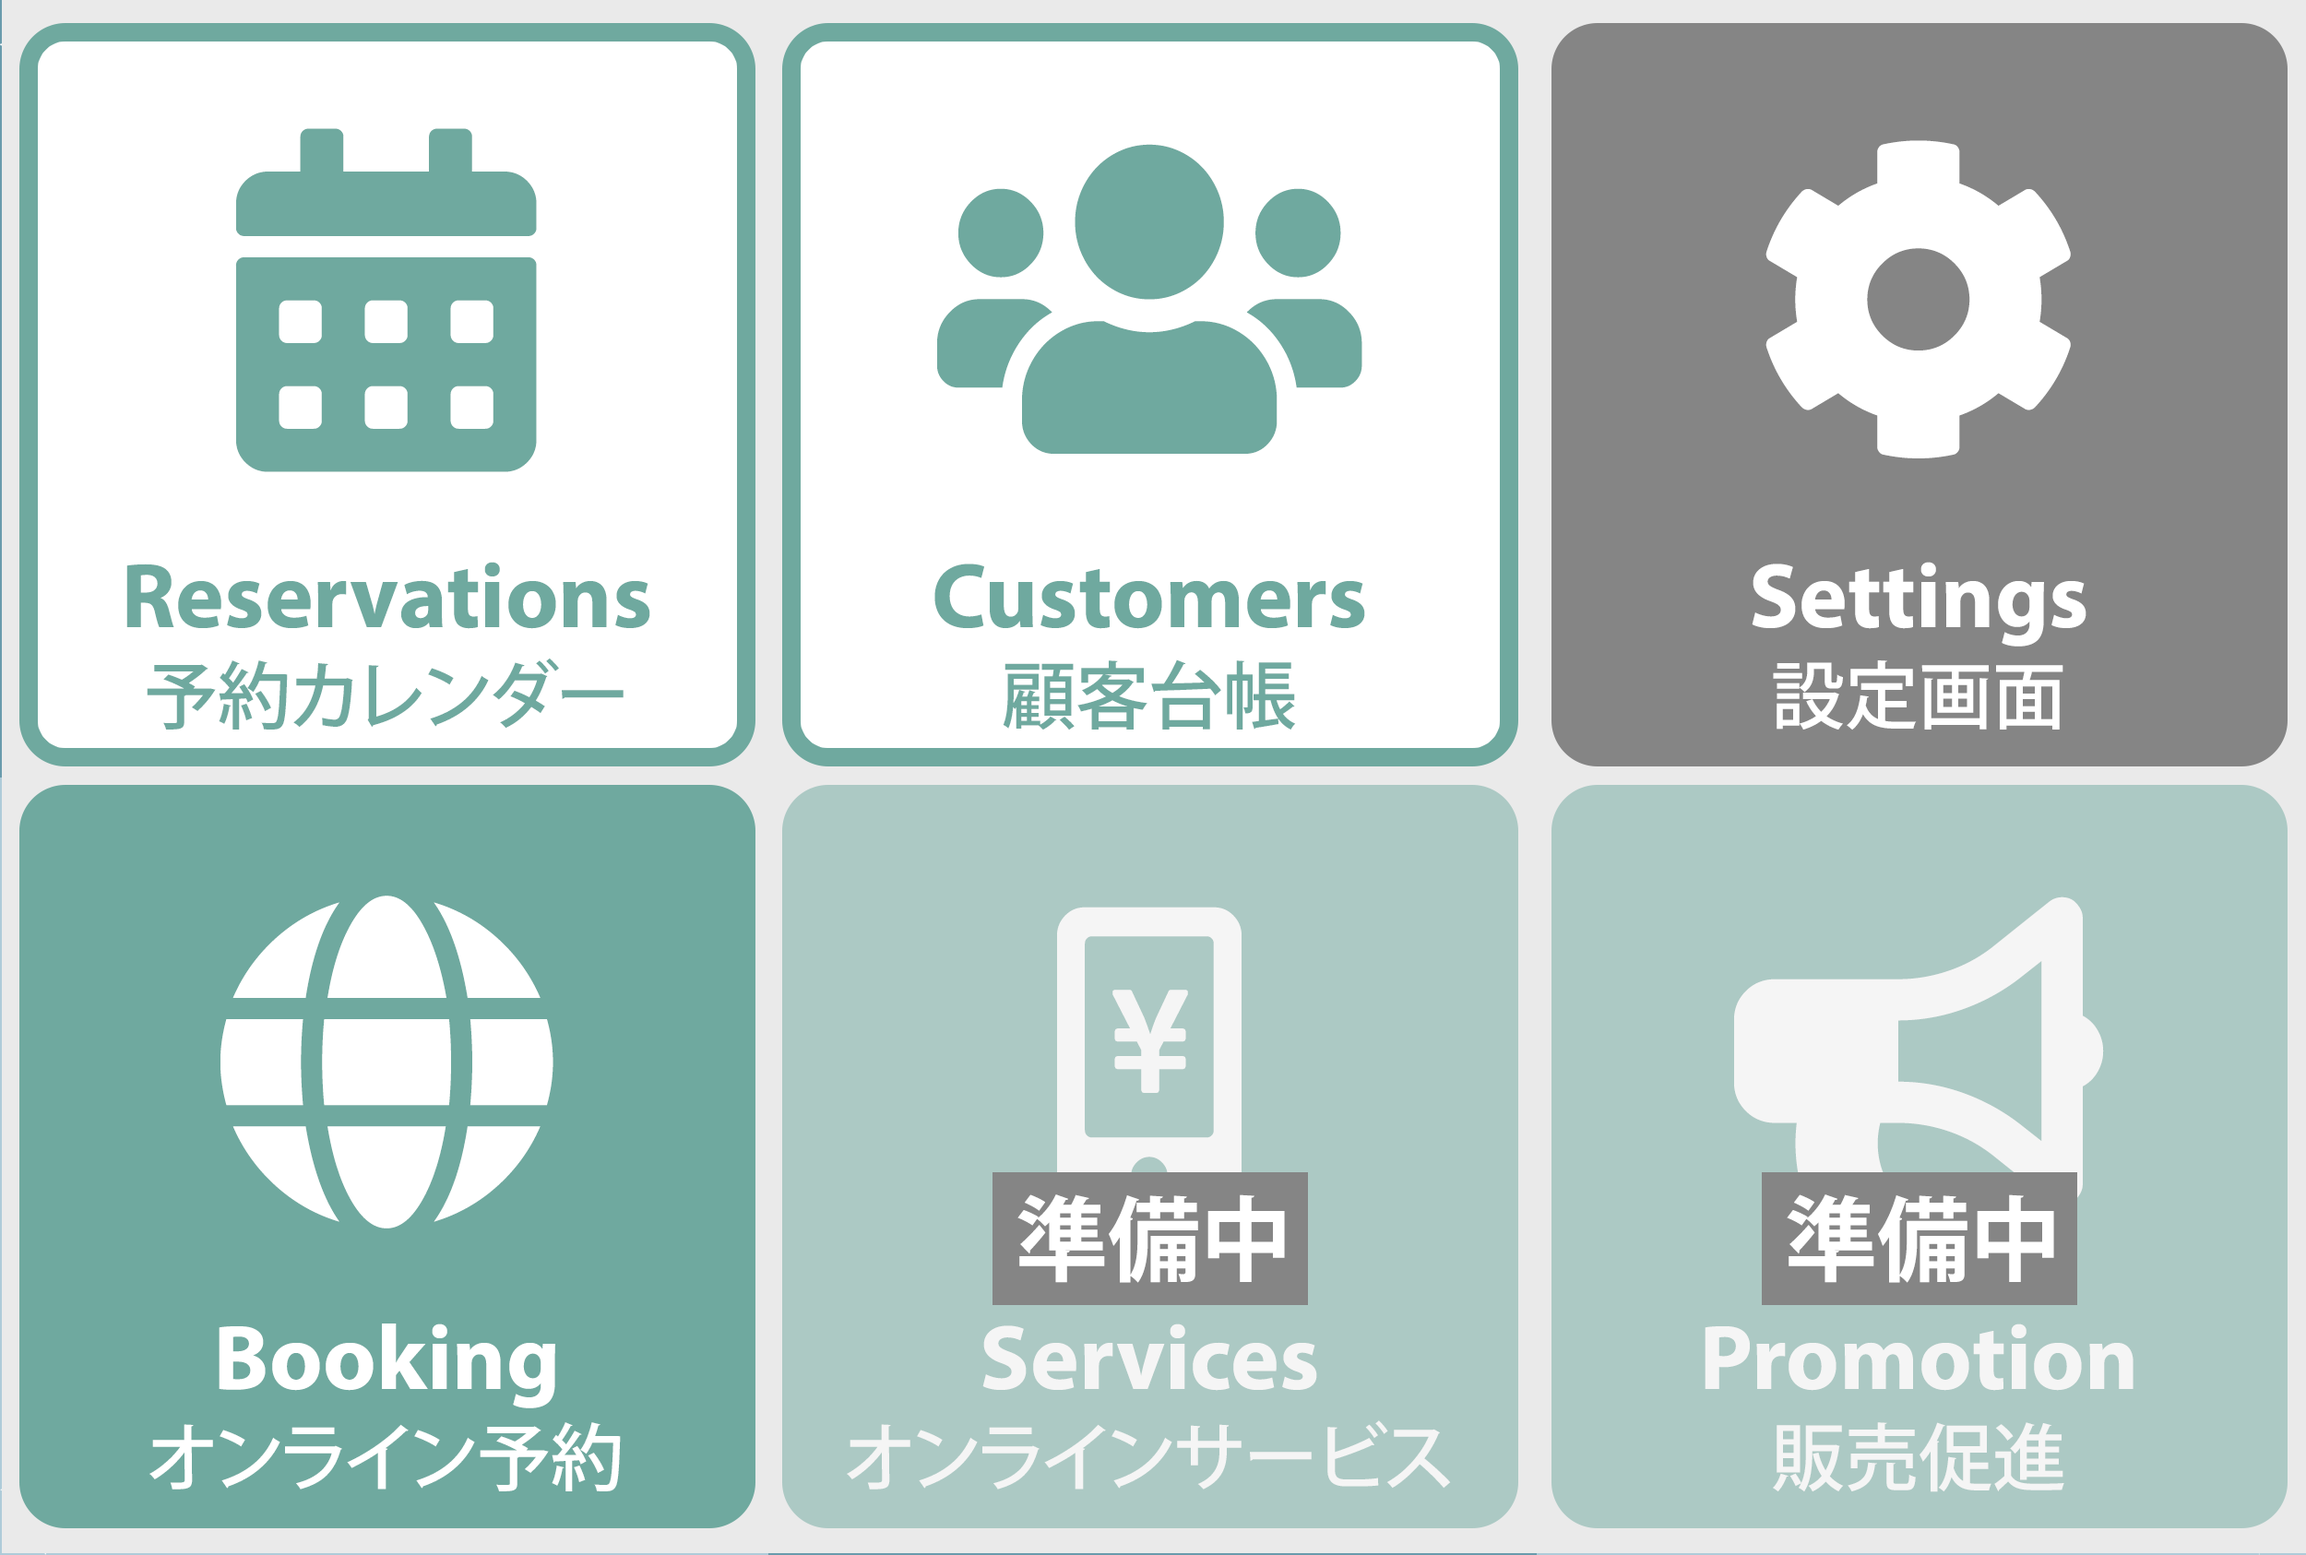
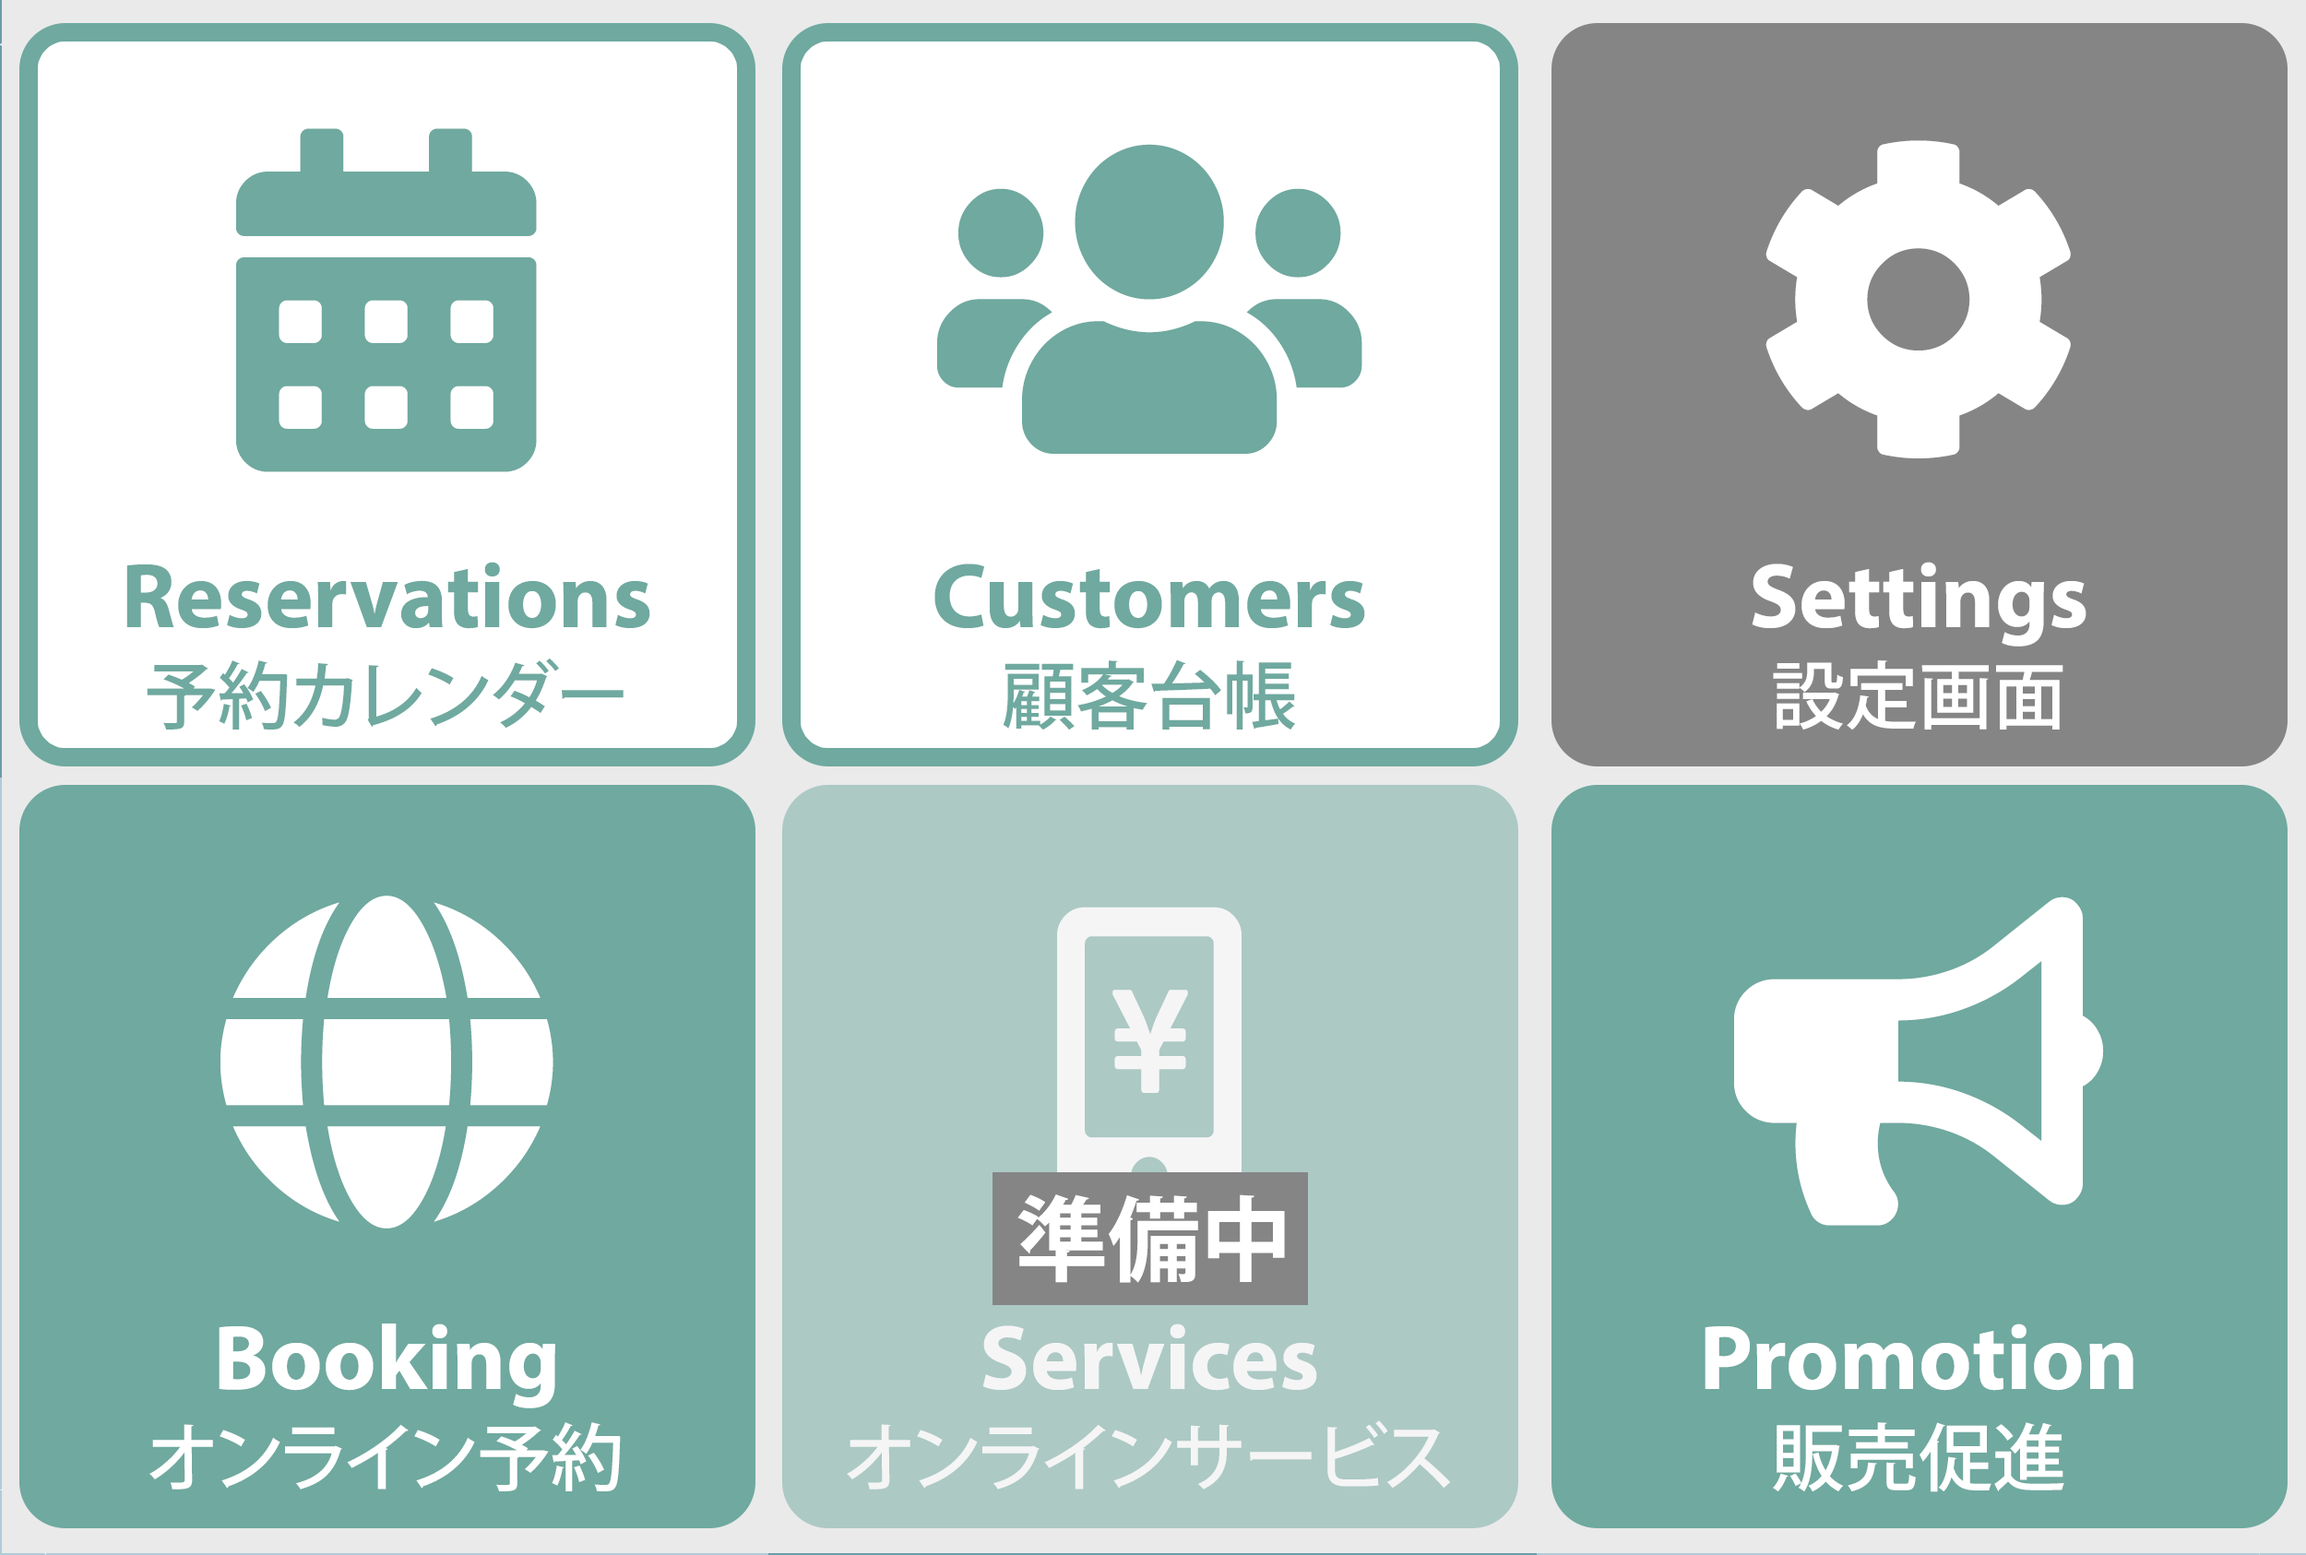
[UserBot][Sales] Add sales related rich menus
[What] Add sales related rich menus
[Why] essential feature
[How] Add it

Changed region(s): [[0.6552, 0.4935, 0.9984, 0.987]]

diff --git a/app/interactions/user_bot_lines/rich_menus/promotions.rb b/app/interactions/user_bot_lines/rich_menus/promotions.rb
@@ -1,0 +1,62 @@
+require "liff_routing"
+
+module UserBotLines
+  module RichMenus
+    class Promotions < ActiveInteraction::Base
+      KEY = "user_promotions".freeze
+
+      # 2500x1686
+      # | 1 | 2 |
+      # | 3 | 4 |
+      def execute
+        body = {
+          "size": {
+            "width": 2500,
+            "height": 1686
+          },
+          "selected": true,
+          "name": KEY,
+          "chatBarText": I18n.t("user_bot.guest.rich_menu_bar"),
+          "areas": [
+            {
+              # 1
+              "bounds": {
+                "x": 0,
+                "y": 0,
+                "width": 1250,
+                "height": 843
+              },
+              "action": LineActions::Postback.template(
+                action: UserBotLines::Actions::SwitchRichMenu.class_name,
+                enabled: true,
+                params: { rich_menu_key: UserBotLines::RichMenus::Dashboard::KEY },
+                displayText: false
+              )
+            },
+            {
+              # 2
+              "bounds": {
+                "x": 1250,
+                "y": 0,
+                "width": 1250,
+                "height": 843
+              },
+              "action": LineActions::Postback.template(
+                action: UserBotLines::Actions::SwitchRichMenu.class_name,
+                enabled: true,
+                params: { rich_menu_key: UserBotLines::RichMenus::Sales::KEY },
+                displayText: false
+              )
+            },
+          ]
+        }
+
+        compose(
+          ::RichMenus::Create,
+          body: body,
+          key: KEY
+        )
+      end
+    end
+  end
+end

diff --git a/app/interactions/user_bot_lines/rich_menus/sales.rb b/app/interactions/user_bot_lines/rich_menus/sales.rb
@@ -1,0 +1,59 @@
+require "liff_routing"
+
+module UserBotLines
+  module RichMenus
+    class Sales < ActiveInteraction::Base
+      KEY = "user_sales".freeze
+
+      # 2500x1686
+      # | 1 | 2 | 3 |
+      def execute
+        body = {
+          "size": {
+            "width": 2500,
+            "height": 843
+          },
+          "selected": true,
+          "name": KEY,
+          "chatBarText": I18n.t("user_bot.guest.rich_menu_bar"),
+          "areas": [
+            {
+              # 1
+              "bounds": {
+                "x": 0,
+                "y": 0,
+                "width": 833,
+                "height": 843
+              },
+              "action": LineActions::Postback.template(
+                action: UserBotLines::Actions::SwitchRichMenu.class_name,
+                enabled: true,
+                params: { rich_menu_key: UserBotLines::RichMenus::Promotions::KEY },
+                displayText: false
+              )
+            },
+            {
+              # 2
+              "bounds": {
+                "x": 844,
+                "y": 0,
+                "width": 833,
+                "height": 843
+              },
+              "action": LineActions::Uri.template(
+                label: I18n.t("toruya_line.actions.label.sales"),
+                url: LiffRouting.liff_url(:new_sales)
+              )
+            },
+          ]
+        }
+
+        compose(
+          ::RichMenus::Create,
+          body: body,
+          key: KEY
+        )
+      end
+    end
+  end
+end

diff --git a/app/interactions/user_bot_lines/rich_menus/dashboard.rb b/app/interactions/user_bot_lines/rich_menus/dashboard.rb
@@ -71,6 +71,21 @@ module UserBotLines
                 params: { rich_menu_key: UserBotLines::RichMenus::Booking::KEY },
                 displayText: false
               )
+            },
+            {
+              # 6
+              "bounds": {
+                "x": 1667,
+                "y": 843,
+                "width": 833,
+                "height": 843
+              },
+              "action": LineActions::Postback.template(
+                action: UserBotLines::Actions::SwitchRichMenu.class_name,
+                enabled: true,
+                params: { rich_menu_key: UserBotLines::RichMenus::Promotions::KEY },
+                displayText: false
+              )
             }
           ]
         }

diff --git a/app/interactions/user_bot_lines/rich_menus/dashboard_with_notifications.rb b/app/interactions/user_bot_lines/rich_menus/dashboard_with_notifications.rb
@@ -85,6 +85,21 @@ module UserBotLines
                 params: { rich_menu_key: UserBotLines::RichMenus::Booking::KEY },
                 displayText: false
               )
+            },
+            {
+              # 6
+              "bounds": {
+                "x": 1667,
+                "y": 843,
+                "width": 833,
+                "height": 843
+              },
+              "action": LineActions::Postback.template(
+                action: UserBotLines::Actions::SwitchRichMenu.class_name,
+                enabled: true,
+                params: { rich_menu_key: UserBotLines::RichMenus::Promotions::KEY },
+                displayText: false
+              )
             }
           ]
         }

diff --git a/config/routes.rb b/config/routes.rb
@@ -113,6 +113,12 @@ Rails.application.routes.draw do
         end
       end
 
+      resources :sales, only: [:new] do
+        collection do
+          get "/new/social_service_user_id/:social_service_user_id", action: "new"
+        end
+      end
+
       resources :booking_pages do
         collection do
           get "/social_service_user_id/:social_service_user_id", action: "index"

diff --git a/app/interactions/rich_menus/connect.rb b/app/interactions/rich_menus/connect.rb
@@ -6,8 +6,8 @@ module RichMenus
     object :social_rich_menu
 
     def execute
-      social_target.update(social_rich_menu_key: social_rich_menu.social_name)
       LineClient.link_rich_menu(social_customer: social_target, social_rich_menu: social_rich_menu)
+      social_target.update(social_rich_menu_key: social_rich_menu.social_name)
     end
   end
 end

diff --git a/lib/liff_routing.rb b/lib/liff_routing.rb
@@ -36,5 +36,6 @@ class LiffRouting
   map :booking_pages, :lines_user_bot_booking_pages_url
   map :booking_options, :lines_user_bot_booking_options_url
   map :new_booking_setting, :new_lines_user_bot_booking_url
+  map :new_sales, :new_lines_user_bot_sale_url
   map :notifications, :lines_user_bot_notifications_url
 end

diff --git a/app/controllers/lines/user_bot/sales_controller.rb b/app/controllers/lines/user_bot/sales_controller.rb
@@ -1,0 +1,4 @@
+class Lines::UserBot::SalesController < Lines::UserBotDashboardController
+  def new
+  end
+end
